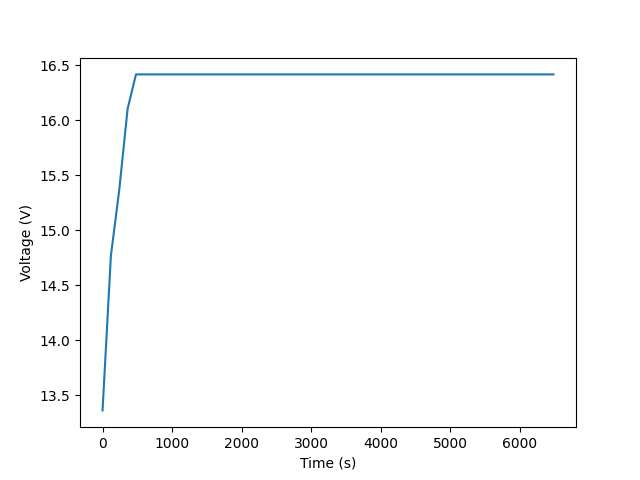
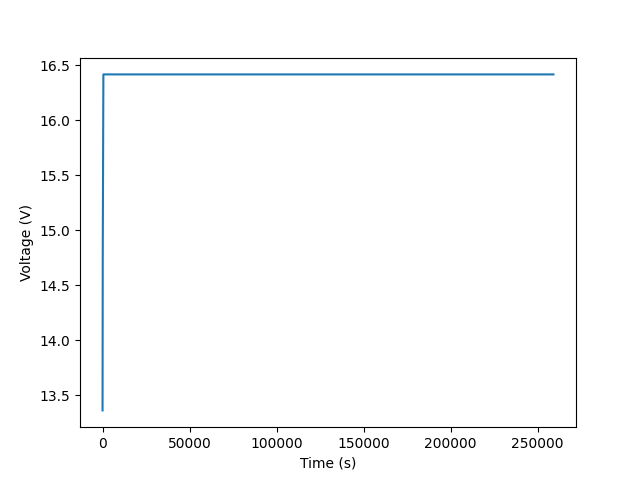
Update plots

diff --git a/code/DischargeDataCollector.py b/code/DischargeDataCollector.py
@@ -17,7 +17,7 @@ hour = 60 * min
 day = 24 * hour
 
 # Parameters
-RUN_ID = "5"
+RUN_ID = "6"
 COM_PORT = "COM4"
 CW_POWER = 24 # CW power in W
 MEASURING_TIME = 5 * day # Measuring time in s
